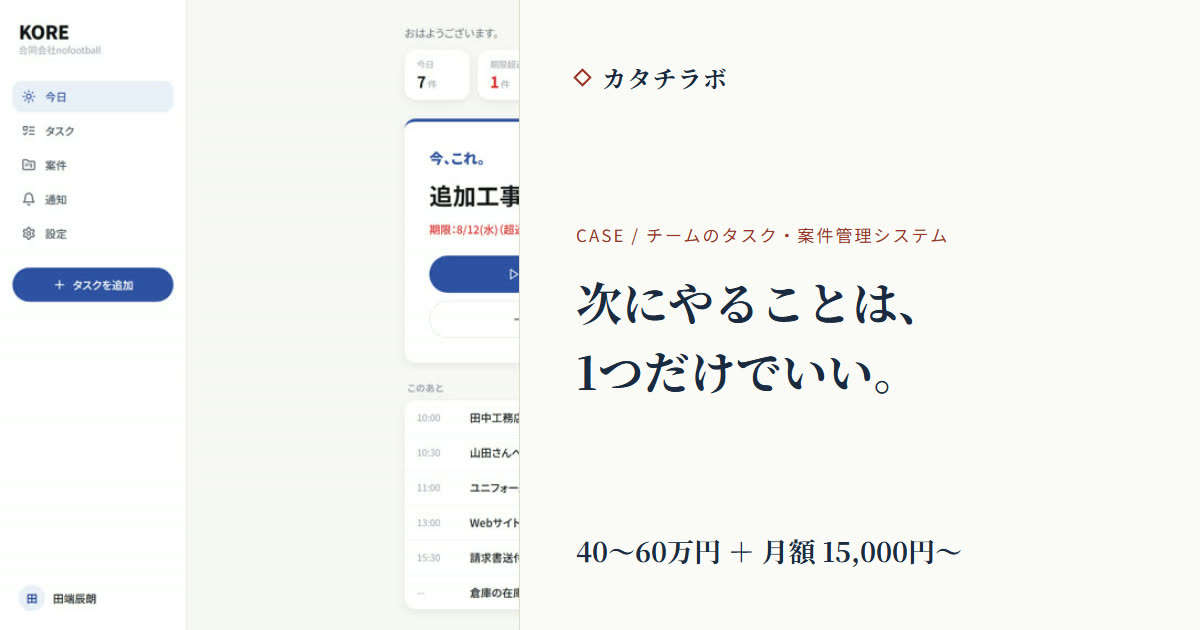
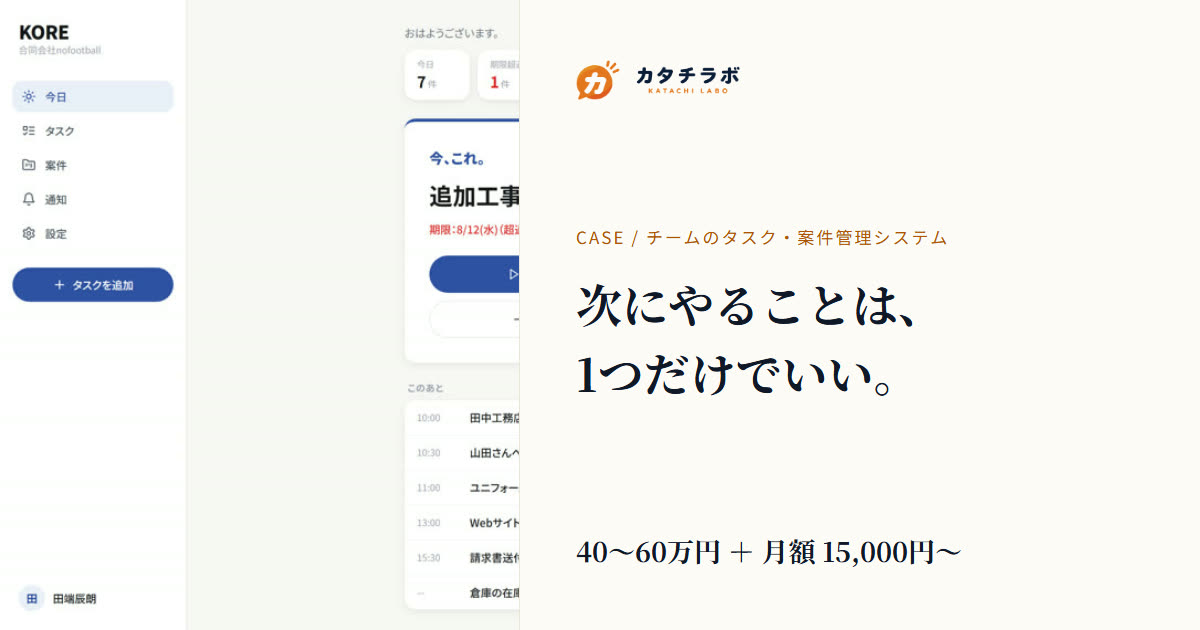
新しいロゴを全ページに入れる
ヘッダー・ファビコン・SNSの共有画像を、いただいた
ロゴに差し替えた。仮のひし形は削除。

横長ロゴ(rogo2.png)は背景が透過ではなく半透明の白で、
そのまま置くと和紙色の上に白い四角が出た。画像のふちから
白をたどって塗りつぶす方法で外側だけを抜き、吹き出しの
中の白い「カ」は残している。

ファビコンは縦組みロゴの記号部分を切り出して作り直した。

ロゴの元データ(1.png / rogo.png / rogo2.png)は公開しない。

diff --git a/404.html b/404.html
@@ -5,8 +5,8 @@
 <meta name="viewport" content="width=device-width, initial-scale=1.0">
 <title>ページが見つかりません | カタチラボ</title>
 <meta name="robots" content="noindex">
-<link rel="icon" href="/katachilabo/favicon.svg" type="image/svg+xml">
 <link rel="icon" href="/katachilabo/favicon-32.png" sizes="32x32" type="image/png">
+<link rel="icon" href="/katachilabo/favicon-192.png" sizes="192x192" type="image/png">
 <link rel="apple-touch-icon" href="/katachilabo/apple-touch-icon.png">
 <meta name="theme-color" content="#FDFBF7">
 <link rel="preconnect" href="https://fonts.googleapis.com">
@@ -37,7 +37,7 @@
     display:flex; align-items:center; gap:10px; margin-bottom:36px;
     text-decoration:none; color:var(--ink);
   }
-  .logo img{height:30px; width:auto; display:block;}
+  .logo img{height:38px; width:auto; display:block;}
   .logo .mark{width:10px; height:10px; border:1.5px solid var(--accent); transform:rotate(45deg);}
   .num{font-size:0.72rem; letter-spacing:0.16em; color:var(--accent); margin-bottom:12px;}
   h1{font-family:'Noto Serif JP', serif; font-size:1.5rem; font-weight:700; line-height:1.5; margin-bottom:16px;}
@@ -51,7 +51,7 @@
 </head>
 <body>
   <div class="box">
-    <a class="logo" href="/katachilabo/"><img src="/katachilabo/img/logo/logo-yoko.svg" alt="カタチラボ" onerror="this.style.display='none';this.nextElementSibling.style.display='flex'"><span class="logo-text" style="display:none;align-items:center;gap:8px"><span class="mark"></span>カタチラボ</span></a>
+    <a class="logo" href="/katachilabo/"><img src="/katachilabo/img/logo/logo-yoko.png" alt="カタチラボ" onerror="this.style.display='none';this.nextElementSibling.style.display='flex'"><span class="logo-text" style="display:none;align-items:center;gap:8px"><span class="mark"></span>カタチラボ</span></a>
     <div class="num">404 NOT FOUND</div>
     <h1>そのページは、<br>見つかりませんでした。</h1>
     <p>

diff --git a/demo/kore-pv.html b/demo/kore-pv.html
@@ -18,8 +18,8 @@
 <meta property="og:image:height" content="630">
 <meta name="twitter:card" content="summary_large_image">
 
-<link rel="icon" href="../favicon.svg" type="image/svg+xml">
 <link rel="icon" href="../favicon-32.png" sizes="32x32" type="image/png">
+<link rel="icon" href="../favicon-192.png" sizes="192x192" type="image/png">
 <link rel="apple-touch-icon" href="../apple-touch-icon.png">
 <meta name="theme-color" content="#FDFBF7">
 
@@ -58,7 +58,7 @@
     display:flex; align-items:center; justify-content:space-between; gap:16px;
   }
   .logo{font-family:'Noto Serif JP', serif; font-weight:700; font-size:1.15rem; display:flex; align-items:center; gap:10px; text-decoration:none; color:var(--ink);}
-  .logo img{height:30px; width:auto; display:block;}
+  .logo img{height:38px; width:auto; display:block;}
   .logo img{height:30px; width:auto; display:block;}
   .logo .mark{width:10px; height:10px; background:var(--brand); display:inline-block;}
   .back{font-size:0.82rem; color:var(--ink-soft); text-decoration:none; border-bottom:1px solid var(--line);}
@@ -108,7 +108,7 @@
 
 <header>
   <div class="header-inner">
-    <a class="logo" href="../index.html"><img src="../img/logo/logo-yoko.svg" alt="カタチラボ" onerror="this.style.display='none';this.nextElementSibling.style.display='flex'"><span class="logo-text" style="display:none;align-items:center;gap:8px"><span class="mark"></span>カタチラボ</span></a>
+    <a class="logo" href="../index.html"><img src="../img/logo/logo-yoko.png" alt="カタチラボ" onerror="this.style.display='none';this.nextElementSibling.style.display='flex'"><span class="logo-text" style="display:none;align-items:center;gap:8px"><span class="mark"></span>カタチラボ</span></a>
     <a class="back" href="../index.html">← トップに戻る</a>
   </div>
 </header>

diff --git a/demo/matchmake-pv.html b/demo/matchmake-pv.html
@@ -18,8 +18,8 @@
 <meta property="og:image:height" content="630">
 <meta name="twitter:card" content="summary_large_image">
 
-<link rel="icon" href="../favicon.svg" type="image/svg+xml">
 <link rel="icon" href="../favicon-32.png" sizes="32x32" type="image/png">
+<link rel="icon" href="../favicon-192.png" sizes="192x192" type="image/png">
 <link rel="apple-touch-icon" href="../apple-touch-icon.png">
 <meta name="theme-color" content="#FDFBF7">
 
@@ -58,7 +58,7 @@
     display:flex; align-items:center; justify-content:space-between; gap:16px;
   }
   .logo{font-family:'Noto Serif JP', serif; font-weight:700; font-size:1.15rem; display:flex; align-items:center; gap:10px; text-decoration:none; color:var(--ink);}
-  .logo img{height:30px; width:auto; display:block;}
+  .logo img{height:38px; width:auto; display:block;}
   .logo img{height:30px; width:auto; display:block;}
   .logo .mark{width:10px; height:10px; background:var(--brand); display:inline-block;}
   .back{font-size:0.82rem; color:var(--ink-soft); text-decoration:none; border-bottom:1px solid var(--line);}
@@ -108,7 +108,7 @@
 
 <header>
   <div class="header-inner">
-    <a class="logo" href="../index.html"><img src="../img/logo/logo-yoko.svg" alt="カタチラボ" onerror="this.style.display='none';this.nextElementSibling.style.display='flex'"><span class="logo-text" style="display:none;align-items:center;gap:8px"><span class="mark"></span>カタチラボ</span></a>
+    <a class="logo" href="../index.html"><img src="../img/logo/logo-yoko.png" alt="カタチラボ" onerror="this.style.display='none';this.nextElementSibling.style.display='flex'"><span class="logo-text" style="display:none;align-items:center;gap:8px"><span class="mark"></span>カタチラボ</span></a>
     <a class="back" href="../index.html">← トップに戻る</a>
   </div>
 </header>

diff --git a/demo/shift-studio-demo.html b/demo/shift-studio-demo.html
@@ -18,8 +18,8 @@
 <meta property="og:image:height" content="630">
 <meta name="twitter:card" content="summary_large_image">
 
-<link rel="icon" href="../favicon.svg" type="image/svg+xml">
 <link rel="icon" href="../favicon-32.png" sizes="32x32" type="image/png">
+<link rel="icon" href="../favicon-192.png" sizes="192x192" type="image/png">
 <link rel="apple-touch-icon" href="../apple-touch-icon.png">
 <meta name="theme-color" content="#FDFBF7">
 
@@ -58,7 +58,7 @@
     display:flex; align-items:center; justify-content:space-between; gap:16px;
   }
   .logo{font-family:'Noto Serif JP', serif; font-weight:700; font-size:1.15rem; display:flex; align-items:center; gap:10px; text-decoration:none; color:var(--ink);}
-  .logo img{height:30px; width:auto; display:block;}
+  .logo img{height:38px; width:auto; display:block;}
   .logo img{height:30px; width:auto; display:block;}
   .logo .mark{width:10px; height:10px; background:var(--brand); display:inline-block;}
   .back{font-size:0.82rem; color:var(--ink-soft); text-decoration:none; border-bottom:1px solid var(--line);}
@@ -103,7 +103,7 @@
 
 <header>
   <div class="header-inner">
-    <a class="logo" href="../index.html"><img src="../img/logo/logo-yoko.svg" alt="カタチラボ" onerror="this.style.display='none';this.nextElementSibling.style.display='flex'"><span class="logo-text" style="display:none;align-items:center;gap:8px"><span class="mark"></span>カタチラボ</span></a>
+    <a class="logo" href="../index.html"><img src="../img/logo/logo-yoko.png" alt="カタチラボ" onerror="this.style.display='none';this.nextElementSibling.style.display='flex'"><span class="logo-text" style="display:none;align-items:center;gap:8px"><span class="mark"></span>カタチラボ</span></a>
     <a class="back" href="../index.html">← トップに戻る</a>
   </div>
 </header>

diff --git a/demo/tactics-board-pv.html b/demo/tactics-board-pv.html
@@ -18,8 +18,8 @@
 <meta property="og:image:height" content="630">
 <meta name="twitter:card" content="summary_large_image">
 
-<link rel="icon" href="../favicon.svg" type="image/svg+xml">
 <link rel="icon" href="../favicon-32.png" sizes="32x32" type="image/png">
+<link rel="icon" href="../favicon-192.png" sizes="192x192" type="image/png">
 <link rel="apple-touch-icon" href="../apple-touch-icon.png">
 <meta name="theme-color" content="#FDFBF7">
 
@@ -58,7 +58,7 @@
     display:flex; align-items:center; justify-content:space-between; gap:16px;
   }
   .logo{font-family:'Noto Serif JP', serif; font-weight:700; font-size:1.15rem; display:flex; align-items:center; gap:10px; text-decoration:none; color:var(--ink);}
-  .logo img{height:30px; width:auto; display:block;}
+  .logo img{height:38px; width:auto; display:block;}
   .logo img{height:30px; width:auto; display:block;}
   .logo .mark{width:10px; height:10px; background:var(--brand); display:inline-block;}
   .back{font-size:0.82rem; color:var(--ink-soft); text-decoration:none; border-bottom:1px solid var(--line);}
@@ -103,7 +103,7 @@
 
 <header>
   <div class="header-inner">
-    <a class="logo" href="../index.html"><img src="../img/logo/logo-yoko.svg" alt="カタチラボ" onerror="this.style.display='none';this.nextElementSibling.style.display='flex'"><span class="logo-text" style="display:none;align-items:center;gap:8px"><span class="mark"></span>カタチラボ</span></a>
+    <a class="logo" href="../index.html"><img src="../img/logo/logo-yoko.png" alt="カタチラボ" onerror="this.style.display='none';this.nextElementSibling.style.display='flex'"><span class="logo-text" style="display:none;align-items:center;gap:8px"><span class="mark"></span>カタチラボ</span></a>
     <a class="back" href="../index.html">← トップに戻る</a>
   </div>
 </header>

diff --git a/index.html b/index.html
@@ -18,8 +18,8 @@
 <meta property="og:image:height" content="630">
 <meta name="twitter:card" content="summary_large_image">
 
-<link rel="icon" href="favicon.svg" type="image/svg+xml">
 <link rel="icon" href="favicon-32.png" sizes="32x32" type="image/png">
+<link rel="icon" href="favicon-192.png" sizes="192x192" type="image/png">
 <link rel="apple-touch-icon" href="apple-touch-icon.png">
 <meta name="theme-color" content="#FDFBF7">
 
@@ -108,7 +108,7 @@
   }
   /* ロゴ画像。img/logo/ にファイルが置かれたら、こちらが表示される。
      まだ無いあいだは読み込みに失敗するので、下の文字ロゴに切り替わる */
-  .logo img{height:34px; width:auto; display:block;}
+  .logo img{height:42px; width:auto; display:block;}
   .logo .mark{
     width:10px; height:10px; border:1.5px solid var(--brand);
     background:var(--brand); transform:rotate(45deg); display:inline-block;
@@ -503,7 +503,7 @@
 
 <header>
   <div class="header-inner">
-    <div class="logo"><img src="img/logo/logo-yoko.svg" alt="カタチラボ" onerror="this.style.display='none';this.nextElementSibling.style.display='flex'"><span class="logo-text" style="display:none;align-items:center;gap:8px"><span class="mark"></span>カタチラボ</span></div>
+    <div class="logo"><img src="img/logo/logo-yoko.png" alt="カタチラボ" onerror="this.style.display='none';this.nextElementSibling.style.display='flex'"><span class="logo-text" style="display:none;align-items:center;gap:8px"><span class="mark"></span>カタチラボ</span></div>
     <a class="nav-cta" href="#contact">相談する</a>
   </div>
 </header>
